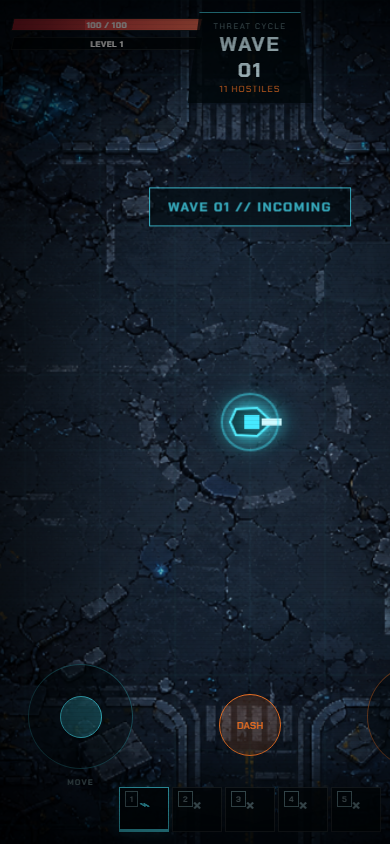
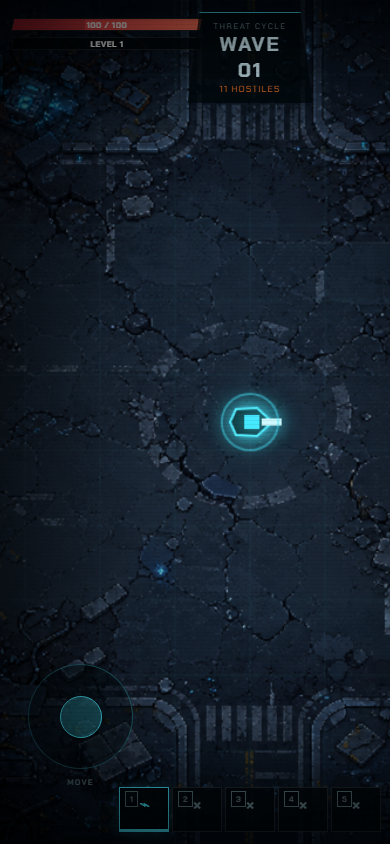
sound effects added

Changed region(s): [[0.3692, 0.2156, 0.8923, 0.2773], [0.5538, 0.8009, 0.7385, 0.8934], [0.9231, 0.8318, 0.9538, 0.8626]]

diff --git a/game.js b/game.js
@@ -8,6 +8,92 @@
   const bg = new Image();
   bg.src = "assets/abandoned-city.png";
 
+  const audio = {
+    ctx: null,
+    master: null,
+    muted: localStorage.getItem("technomancer-muted") === "true",
+    noiseBuffer: null,
+    unlock() {
+      if (!this.ctx) {
+        const AudioCtx = window.AudioContext || window.webkitAudioContext;
+        if (!AudioCtx) return;
+        this.ctx = new AudioCtx();
+        this.master = this.ctx.createGain();
+        this.master.gain.value = this.muted ? 0 : .55;
+        this.master.connect(this.ctx.destination);
+        const length = Math.floor(this.ctx.sampleRate * .5);
+        this.noiseBuffer = this.ctx.createBuffer(1, length, this.ctx.sampleRate);
+        const data = this.noiseBuffer.getChannelData(0);
+        for (let i = 0; i < length; i++) data[i] = Math.random() * 2 - 1;
+      }
+      if (this.ctx.state === "suspended") this.ctx.resume();
+      this.updateButton();
+    },
+    updateButton() {
+      const btn = $("#soundBtn");
+      if (!btn) return;
+      btn.textContent = this.muted ? "×" : "◖";
+      btn.setAttribute("aria-label", this.muted ? "Enable sound" : "Mute sound");
+    },
+    toggle() {
+      this.unlock();
+      this.muted = !this.muted;
+      localStorage.setItem("technomancer-muted", this.muted);
+      if (this.master) this.master.gain.setTargetAtTime(this.muted ? 0 : .55, this.ctx.currentTime, .015);
+      this.updateButton();
+      if (!this.muted) this.tone(620, .07, "square", .08, 850);
+    },
+    tone(freq, duration=.08, type="square", volume=.05, endFreq=freq, delay=0) {
+      if (!this.ctx || this.muted) return;
+      const now = this.ctx.currentTime + delay;
+      const osc = this.ctx.createOscillator();
+      const gain = this.ctx.createGain();
+      osc.type = type;
+      osc.frequency.setValueAtTime(Math.max(20, freq), now);
+      osc.frequency.exponentialRampToValueAtTime(Math.max(20, endFreq), now + duration);
+      gain.gain.setValueAtTime(volume, now);
+      gain.gain.exponentialRampToValueAtTime(.0001, now + duration);
+      osc.connect(gain); gain.connect(this.master);
+      osc.start(now); osc.stop(now + duration + .01);
+    },
+    noise(duration=.1, volume=.04, filterFreq=900, delay=0) {
+      if (!this.ctx || this.muted || !this.noiseBuffer) return;
+      const now = this.ctx.currentTime + delay;
+      const source = this.ctx.createBufferSource();
+      const filter = this.ctx.createBiquadFilter();
+      const gain = this.ctx.createGain();
+      source.buffer = this.noiseBuffer;
+      filter.type = "lowpass";
+      filter.frequency.value = filterFreq;
+      gain.gain.setValueAtTime(volume, now);
+      gain.gain.exponentialRampToValueAtTime(.0001, now + duration);
+      source.connect(filter); filter.connect(gain); gain.connect(this.master);
+      source.start(now); source.stop(now + duration);
+    },
+    play(name) {
+      if (!this.ctx || this.muted) return;
+      const sounds = {
+        blaster: () => { this.tone(310,.055,"square",.025,145); this.tone(920,.035,"sine",.018,480); },
+        shotgun: () => { this.noise(.14,.075,1500); this.tone(125,.12,"sawtooth",.035,58); },
+        tesla: () => { this.tone(1250,.06,"sawtooth",.025,420); this.tone(780,.1,"square",.018,1300,.035); },
+        rocket: () => { this.noise(.18,.07,650); this.tone(92,.2,"sawtooth",.05,38); },
+        drone: () => this.tone(740,.055,"triangle",.025,1050),
+        kill: () => { this.noise(.1,.035,850); this.tone(105,.09,"square",.02,55); },
+        bossKill: () => { this.noise(.45,.12,1000); this.tone(85,.55,"sawtooth",.09,24); this.tone(420,.45,"square",.045,62,.12); },
+        hurt: () => { this.noise(.13,.08,500); this.tone(155,.18,"sawtooth",.05,62); },
+        pickup: () => { this.tone(540,.045,"sine",.02,760); this.tone(820,.055,"sine",.018,1080,.045); },
+        ready: () => { this.tone(440,.08,"square",.035,660); this.tone(660,.11,"square",.035,990,.09); },
+        upgrade: () => { [330,495,660,990].forEach((f,i)=>this.tone(f,.12,"triangle",.035,f*1.18,i*.065)); },
+        wave: () => { this.tone(145,.18,"sawtooth",.04,220); this.tone(290,.2,"square",.03,430,.1); },
+        clear: () => { [392,523,659].forEach((f,i)=>this.tone(f,.2,"triangle",.035,f*1.08,i*.09)); },
+        dash: () => { this.noise(.11,.035,2200); this.tone(210,.11,"sine",.03,720); },
+        ui: () => this.tone(600,.045,"square",.025,780),
+        defeat: () => { this.tone(220,.35,"sawtooth",.05,70); this.tone(105,.5,"sine",.05,32,.18); }
+      };
+      if (sounds[name]) sounds[name]();
+    }
+  };
+
   const screens = {
     menu: $("#menu"), hud: $("#hud"), upgrade: $("#upgradeScreen"),
     base: $("#baseScreen"), pause: $("#pauseScreen"), result: $("#resultScreen")
@@ -70,6 +156,8 @@
   function clamp(v, a, b) { return Math.max(a, Math.min(b, v)); }
 
   function startGame() {
+    audio.unlock();
+    audio.play("ui");
     const maxHp = 100 + profile.upgrades.vitality * 10;
     run = { wave: 0, level: 1, xp: 0, xpNeed: 60, pendingUpgrades: 0, kills: 0, parts: 0, spawnLeft: 0, spawning: false, waveDelay: 1.2, waveCleared: false, bossSpawned: false };
     player = {
@@ -94,11 +182,13 @@
       run.spawnLeft = 0;
       spawnBoss();
       toast("⚠ OMEGA SIGNAL DETECTED");
+      audio.play("wave");
     } else {
       run.spawnLeft = 7 + run.wave * 4;
       run.spawning = true;
       run.spawnTimer = .2;
       toast(`WAVE 0${run.wave} // INCOMING`);
+      audio.play("wave");
     }
     updateHUD();
   }
@@ -143,6 +233,7 @@
     const w = weaponDefs[player.activeWeapon];
     if (!player.unlocked[player.activeWeapon]) return;
     player.fireTimer = w.rate / player.rate;
+    audio.play(w.id);
     const a = player.angle;
     if (w.id === "shotgun") {
       for (let i = -2; i <= 2; i++) makeBullet(a + i * .115 + rand(-.03,.03), w, 1, 1.1);
@@ -201,6 +292,7 @@
     run.kills++;
     shake = e.type === "boss" ? 20 : Math.max(shake, e.r*.18);
     burst(e.x,e.y,e.color,e.type==="boss"?70:16,e.type==="boss"?6:3);
+    audio.play(e.type === "boss" ? "bossKill" : "kill");
     pickups.push({ x:e.x+rand(-8,8), y:e.y+rand(-8,8), type:"xp", value:e.xp, r:5, color:"#49eaff" });
     const salvage = Math.ceil(e.parts*(1+profile.upgrades.salvage*.1));
     if (Math.random() < .75 || e.type === "boss") pickups.push({ x:e.x+rand(-10,10), y:e.y+rand(-10,10), type:"part", value:salvage, r:6, color:"#ffb34c" });
@@ -214,6 +306,7 @@
     player.invuln = .55;
     shake = 9;
     burst(player.x, player.y, "#ff3957", 12, 4);
+    audio.play("hurt");
     if (player.hp <= 0) finishRun(false);
   }
 
@@ -225,6 +318,7 @@
       run.pendingUpgrades++;
       run.xpNeed = Math.round(run.xpNeed * 1.38);
       toast("UPGRADE READY // PRESS E");
+      audio.play("ready");
     }
     updateUpgradePrompt();
   }
@@ -275,6 +369,7 @@
       screens.hud.classList.remove("hidden");
       state = "running";
       toast(`${u.name.toUpperCase()} INSTALLED`);
+      audio.play("upgrade");
       updateUpgradePrompt();
       updateHUD();
     });
@@ -310,6 +405,7 @@
     state = "result";
     profile.parts += run.parts;
     save();
+    if (!victory) audio.play("defeat");
     showOnly("result");
     $("#mobileControls").classList.add("hidden");
     $("#resultTitle").innerHTML = victory ? "PROTOCOL <em>BREACHED</em>" : "RUN <em>TERMINATED</em>";
@@ -403,7 +499,7 @@
     for (const p of pickups) {
       const d=dist(p,player);
       if(d<player.magnet){const a=angleTo(p,player);p.x+=Math.cos(a)*Math.max(180,500-d)*dt;p.y+=Math.sin(a)*Math.max(180,500-d)*dt;}
-      if(d<player.r+p.r+5){if(p.type==="xp")addXp(p.value);else{run.parts+=p.value;texts.push({x:p.x,y:p.y,text:`+${p.value} PARTS`,color:"#ffb24b",life:.8,vy:-25});}p.dead=true;}
+      if(d<player.r+p.r+5){if(p.type==="xp")addXp(p.value);else{run.parts+=p.value;texts.push({x:p.x,y:p.y,text:`+${p.value} PARTS`,color:"#ffb24b",life:.8,vy:-25});audio.play("pickup");}p.dead=true;}
     }
     pickups=pickups.filter(p=>!p.dead);
     for(const p of particles){p.x+=p.vx*dt;p.y+=p.vy*dt;p.vx*=.94;p.vy*=.94;p.life-=dt;}
@@ -421,6 +517,7 @@
         texts.push({x:player.x,y:player.y-35,text:"+15% MAX INTEGRITY",color:"#63ffae",life:1.4,vy:-18});
         burst(player.x,player.y,"#63ffae",22,2);
         toast(`WAVE 0${run.wave} CLEARED // +15% MAX INTEGRITY`);
+        audio.play("clear");
       }
       run.waveDelay-=dt;
       if(run.waveDelay<=0){run.waveDelay=1.5;beginWave();}
@@ -540,6 +637,7 @@
   $("#returnBtn").onclick=()=>{state="menu";showOnly("menu");$("#bossBar").classList.add("hidden");};
   $("#closeBase").onclick=()=>{state="menu";showOnly("menu");};
   $("#pauseBtn").onclick=()=>{if(state==="running"){state="paused";screens.pause.classList.remove("hidden");screens.hud.classList.add("hidden");}};
+  $("#soundBtn").onclick=()=>audio.toggle();
   $("#resumeBtn").onclick=()=>{state="running";screens.pause.classList.add("hidden");screens.hud.classList.remove("hidden");last=performance.now();};
   $("#quitBtn").onclick=abortRun;
   addEventListener("keydown",e=>{
@@ -551,7 +649,7 @@
   });
   addEventListener("keyup",e=>keys[e.key.toLowerCase()]=false);
   canvas.addEventListener("pointermove",e=>{const r=canvas.getBoundingClientRect();pointer.x=(e.clientX-r.left)/r.width*W;pointer.y=(e.clientY-r.top)/r.height*H;});
-  function dash(){if(state==="running"&&player.dashCd<=0){player.dash=.16;player.dashCd=1.5;burst(player.x,player.y,"#48eaff",14,2);}}
+  function dash(){if(state==="running"&&player.dashCd<=0){player.dash=.16;player.dashCd=1.5;burst(player.x,player.y,"#48eaff",14,2);audio.play("dash");}}
   $("#dashBtn").onclick=dash;
   $("#upgradePrompt").onclick=openPendingUpgrade;
   function bindStick(element, input) {
@@ -577,6 +675,8 @@
   }
   bindStick($("#joystick"), joystick);
   addEventListener("blur",()=>{if(state==="running")$("#pauseBtn").click();});
+  addEventListener("pointerdown",()=>audio.unlock(),{once:true});
   updateBank();
+  audio.updateButton();
   if (new URLSearchParams(location.search).has("play")) startGame();
 })();

diff --git a/index.html b/index.html
@@ -38,6 +38,7 @@
 
       <div class="hud-right">
         <div class="parts-counter"><span class="part-icon">◆</span><div><small>SCAVENGED</small><strong id="partsText">0 PARTS</strong></div></div>
+        <button id="soundBtn" class="icon-button" aria-label="Toggle sound">◖</button>
         <button id="pauseBtn" class="icon-button" aria-label="Pause game">Ⅱ</button>
       </div>
 
